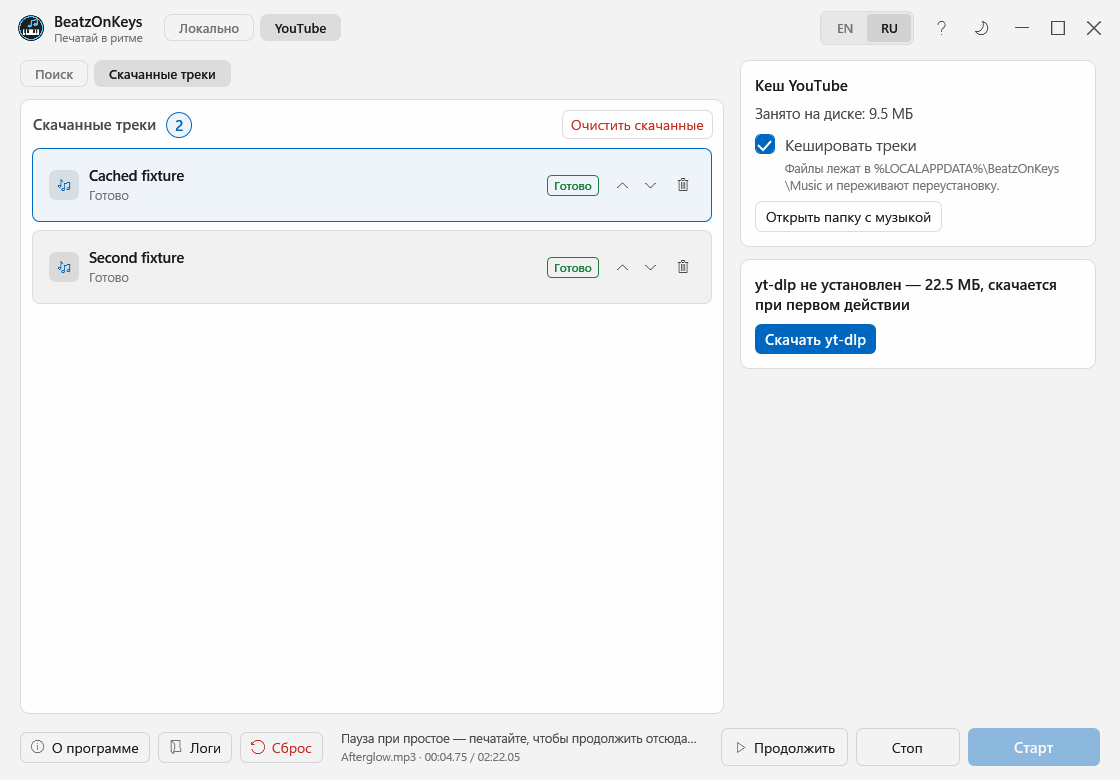
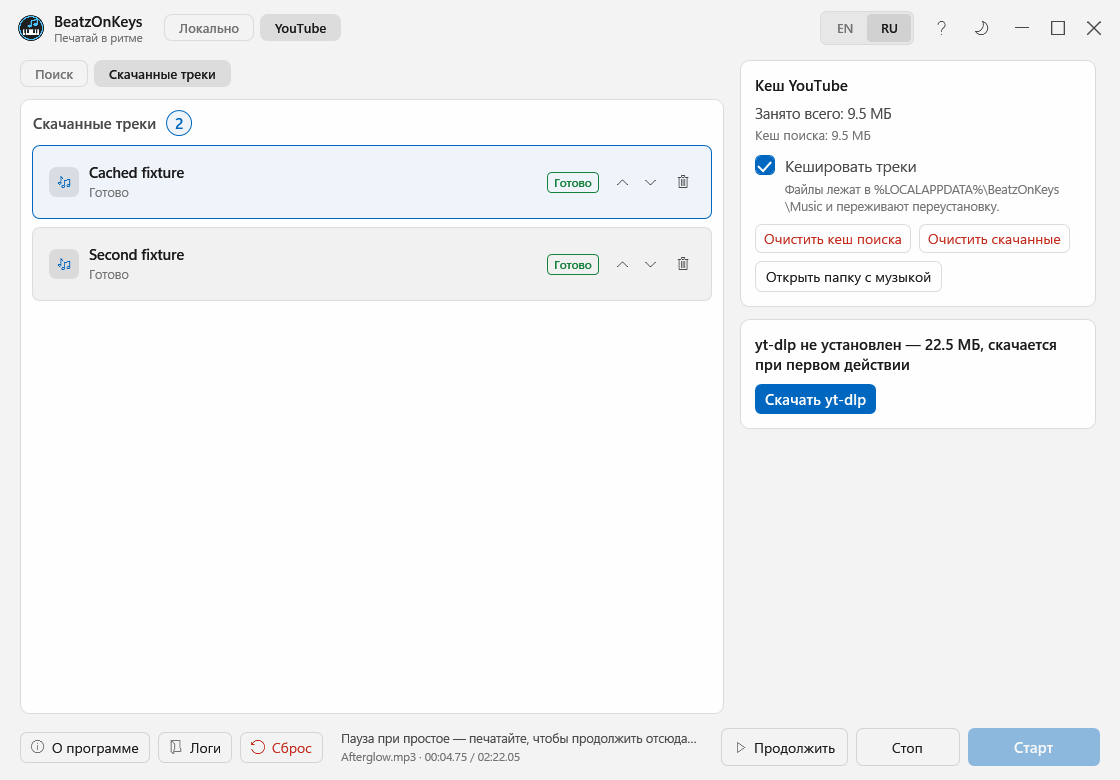
Release 1.3.1: both cache actions live in the cache card
The two clear buttons and the preview size left the tabs and gathered in the YouTube cache card, next to the numbers they change: total, search cache, the caching switch, both actions and the folder button. The downloaded tab header is back to a title and a counter, which also fixes the counter stretching across the row.

Core 89 tests, UI smoke 211 checks, production tray 11. Screenshots regenerated.

diff --git a/BeatzOnKeys.UI/MainWindow.xaml b/BeatzOnKeys.UI/MainWindow.xaml
@@ -848,16 +848,6 @@
                             </DockPanel>
                             <TextBlock Text="{DynamicResource L_YtSearchHint}" FontSize="14" TextWrapping="Wrap"
                                        Margin="0,10,0,0" Foreground="{DynamicResource TextSecondaryBrush}"/>
-                            <!-- The previews this tab made are a separate cache from the kept tracks. -->
-                            <DockPanel Margin="0,10,0,0">
-                                <Button DockPanel.Dock="Right" Content="{DynamicResource L_YtClearSearchCache}"
-                                        Command="{Binding YouTube.ClearSearchCacheCommand}"
-                                        Style="{StaticResource SubtleButtonStyle}" Padding="8,4"
-                                        VerticalAlignment="Center"/>
-                                <TextBlock Text="{Binding YouTube.SearchCacheSizeText}" FontSize="13"
-                                           VerticalAlignment="Center"
-                                           Foreground="{DynamicResource TextTertiaryBrush}"/>
-                            </DockPanel>
                             <ProgressBar Value="{Binding YouTube.InstallProgress, Mode=OneWay}" Maximum="1"
                                          Height="4" Margin="0,10,0,0">
                                 <ProgressBar.Style>
@@ -998,7 +988,7 @@
                             <RowDefinition Height="*"/>
                             <RowDefinition Height="Auto"/>
                         </Grid.RowDefinitions>
-                        <DockPanel Grid.Row="0" Margin="2,0,0,8">
+                        <StackPanel Grid.Row="0" Orientation="Horizontal" Margin="2,0,0,8">
                             <TextBlock Text="{DynamicResource L_YtDownloadedTitle}" FontSize="15"
                                        FontWeight="SemiBold" Foreground="{DynamicResource TextSecondaryBrush}"
                                        VerticalAlignment="Center"/>
@@ -1010,13 +1000,7 @@
                                            FontWeight="SemiBold" HorizontalAlignment="Center"
                                            VerticalAlignment="Center" Foreground="{DynamicResource AccentBrush}"/>
                             </Border>
-                            <!-- Last child of a DockPanel fills the rest of the row unless it opts out,
-                                 so the button is anchored right and keeps its own width. -->
-                            <Button DockPanel.Dock="Right" Content="{DynamicResource L_YtClearDownloaded}"
-                                    Click="YouTubeClearCacheClick"
-                                    Style="{StaticResource DangerButtonStyle}" Padding="8,4"
-                                    HorizontalAlignment="Right" VerticalAlignment="Center"/>
-                        </DockPanel>
+                        </StackPanel>
                         <ListBox Grid.Row="1" ItemsSource="{Binding YouTube.Downloaded}" Background="Transparent"
                                  SelectedItem="{Binding YouTube.SelectedTrack, Mode=TwoWay}"
                                  BorderThickness="0" Padding="0"
@@ -1214,14 +1198,24 @@
                         <StackPanel>
                             <TextBlock Text="{DynamicResource L_YtCacheTitle}" FontSize="15" FontWeight="SemiBold"
                                        Foreground="{DynamicResource TextPrimaryBrush}"/>
+                            <!-- One place for both caches: the total, the previews and the two clear actions. -->
                             <TextBlock Text="{Binding YouTube.CacheSizeText}" FontSize="14.5" Margin="0,8,0,0"
                                        Foreground="{DynamicResource TextSecondaryBrush}"/>
+                            <TextBlock Text="{Binding YouTube.SearchCacheSizeText}" FontSize="13" Margin="0,4,0,0"
+                                       TextWrapping="Wrap" Foreground="{DynamicResource TextTertiaryBrush}"/>
                             <CheckBox IsChecked="{Binding YouTube.CacheEnabled}" Margin="0,10,0,0">
                                 <TextBlock Text="{DynamicResource L_YtCacheEnabled}" TextWrapping="Wrap"/>
                             </CheckBox>
                             <TextBlock Text="{DynamicResource L_YtCacheHint}" FontSize="12.5" TextWrapping="Wrap"
                                        Margin="30,4,0,0" Foreground="{DynamicResource TextTertiaryBrush}"/>
-                            <!-- The two clear actions live on their own tabs: previews are not kept tracks. -->
+                            <WrapPanel Margin="0,10,0,0">
+                                <Button Content="{DynamicResource L_YtClearSearchCache}"
+                                        Command="{Binding YouTube.ClearSearchCacheCommand}"
+                                        Style="{StaticResource DangerButtonStyle}" Padding="8,4" Margin="0,0,8,0"/>
+                                <Button Content="{DynamicResource L_YtClearDownloaded}"
+                                        Click="YouTubeClearCacheClick"
+                                        Style="{StaticResource DangerButtonStyle}" Padding="8,4"/>
+                            </WrapPanel>
                             <Button Content="{DynamicResource L_YtOpenFolder}"
                                     Command="{Binding YouTube.OpenMusicFolderCommand}"
                                     Style="{StaticResource SubtleButtonStyle}" Padding="10,5" Margin="0,8,0,0"

diff --git a/BeatzOnKeys.UI/Localization/Strings.ru.xaml b/BeatzOnKeys.UI/Localization/Strings.ru.xaml
@@ -188,7 +188,7 @@
     <sys:String x:Key="L_YtPlay">Слушать</sys:String>
     <sys:String x:Key="L_YtRemove">Убрать</sys:String>
     <sys:String x:Key="L_YtCacheTitle">Кеш YouTube</sys:String>
-    <sys:String x:Key="L_YtCacheUsedFormat">Занято на диске: {0}</sys:String>
+    <sys:String x:Key="L_YtCacheUsedFormat">Занято всего: {0}</sys:String>
     <sys:String x:Key="L_YtClearCache">Очистить кеш YouTube</sys:String>
     <sys:String x:Key="L_YtClearCacheConfirm">Удалить все скачанные треки YouTube? Локальный плейлист не пострадает.</sys:String>
     <sys:String x:Key="L_YtClearCacheTitle">Очистить кеш</sys:String>

diff --git a/BeatzOnKeys.UI/Localization/Strings.en.xaml b/BeatzOnKeys.UI/Localization/Strings.en.xaml
@@ -188,7 +188,7 @@ Details: {1}</sys:String>
     <sys:String x:Key="L_YtPlay">Listen</sys:String>
     <sys:String x:Key="L_YtRemove">Remove</sys:String>
     <sys:String x:Key="L_YtCacheTitle">YouTube cache</sys:String>
-    <sys:String x:Key="L_YtCacheUsedFormat">Used on disk: {0}</sys:String>
+    <sys:String x:Key="L_YtCacheUsedFormat">Total: {0}</sys:String>
     <sys:String x:Key="L_YtClearCache">Clear the YouTube cache</sys:String>
     <sys:String x:Key="L_YtClearCacheConfirm">Delete every downloaded YouTube track? The local playlist is not affected.</sys:String>
     <sys:String x:Key="L_YtClearCacheTitle">Clear the cache</sys:String>

diff --git a/BeatzOnKeys.Tests/UpdateServiceTests.cs b/BeatzOnKeys.Tests/UpdateServiceTests.cs
@@ -17,9 +17,9 @@ internal static class UpdateServiceTests
         var assemblyVersion = AssertEx.NotNull(typeof(UpdateService).Assembly.GetName().Version);
         AssertEx.Equal(1, assemblyVersion.Major);
         AssertEx.Equal(3, assemblyVersion.Minor);
-        AssertEx.Equal(0, assemblyVersion.Build);
-        AssertEx.Equal(9, assemblyVersion.Revision);
-        AssertEx.Equal("1.3.0.9", UpdateService.CurrentVersion.Display);
+        AssertEx.Equal(1, assemblyVersion.Build);
+        AssertEx.Equal(0, assemblyVersion.Revision);
+        AssertEx.Equal("1.3.1", UpdateService.CurrentVersion.Display);
 
         var current = Version("1.1.1");
         var result = UpdateService.ParseRelease(ReleaseJson("v1.1.1"), current);

diff --git a/tools/AudioProbe/Program.cs b/tools/AudioProbe/Program.cs
@@ -210,7 +210,7 @@ static async Task<int> RunProbeAsync(string sourcePath, string reportPath)
     var passed = checks.All(check => check.Passed);
     var report = new
     {
-        passed, utc = DateTimeOffset.UtcNow, version = "1.3.0.9", source = Path.GetFileName(sourcePath),
+        passed, utc = DateTimeOffset.UtcNow, version = "1.3.1", source = Path.GetFileName(sourcePath),
         durationSeconds = duration.TotalSeconds, processId = Environment.ProcessId,
         capture = "Windows process-specific loopback (only this diagnostic process tree)",
         defaults = new { MinVolume = 0.2, MaxVolume = 1.0, IdleTimeout = 3, PauseOnIdle = true },

diff --git a/BeatzOnKeys.UI/AboutWindow.xaml.cs b/BeatzOnKeys.UI/AboutWindow.xaml.cs
@@ -56,7 +56,7 @@ public partial class AboutWindow : Window
                 return parsed.Display;
             }
 
-            return assembly.GetName().Version?.ToString(3) ?? "1.3.0.9";
+            return assembly.GetName().Version?.ToString(3) ?? "1.3.1";
         }
     }
 

diff --git a/release-notes/v1.3.1.md b/release-notes/v1.3.1.md
@@ -1,0 +1,41 @@
+## English
+
+1.3.1 gathers both cache actions in one card, where the numbers they act on live.
+
+### One place for the cache
+
+- **Both clear buttons moved into «Кеш YouTube»**: «Очистить кеш поиска» removes the previews only, «Очистить скачанные» removes the tracks you kept and their files. They sat on the tabs before, far from the size they change.
+- **The search cache is reported there too**, so the card now reads as a whole: `Total`, `Search cache`, the caching switch, both actions and the folder button.
+- **The tabs lost their header buttons** and went back to just a title and a counter — the downloaded list gets that width back for its rows.
+
+## Русский
+
+1.3.1 собирает обе очистки кеша в одной карточке — там же, где числа, на которые они влияют.
+
+### Одно место для кеша
+
+- **Обе кнопки очистки переехали в «Кеш YouTube»**: «Очистить кеш поиска» удаляет только предпросмотры, «Очистить скачанные» — сохранённые треки вместе с файлами. Раньше они жили на вкладках, далеко от того размера, который меняют.
+- **Кеш поиска показывается там же**, поэтому карточка читается целиком: `Занято всего`, `Кеш поиска`, переключатель кеширования, оба действия и кнопка папки.
+- **Вкладки лишились кнопок в заголовке** и вернулись к заголовку со счётчиком — список скачанного получил эту ширину обратно под строки.
+
+## Assets
+
+Every file for this version is attached to the release:
+
+| File | What it is |
+|---|---|
+| [`BeatzOnKeys.exe`](https://github.com/MusicCat-61/BeatzOnKeys/releases/download/v1.3.1/BeatzOnKeys.exe) | Portable single-file build — **this is what the in-app updater downloads** |
+| [`BeatzOnKeys.exe.sha256`](https://github.com/MusicCat-61/BeatzOnKeys/releases/download/v1.3.1/BeatzOnKeys.exe.sha256) | SHA-256 of the executable |
+| [`BeatzOnKeys-win-x64.zip`](https://github.com/MusicCat-61/BeatzOnKeys/releases/download/v1.3.1/BeatzOnKeys-win-x64.zip) | The same build as a folder archive, for a manual install |
+| [`BeatzOnKeys-win-x64.zip.sha256`](https://github.com/MusicCat-61/BeatzOnKeys/releases/download/v1.3.1/BeatzOnKeys-win-x64.zip.sha256) | SHA-256 of the archive |
+
+## Ассеты
+
+Все файлы этой версии прикреплены к релизу:
+
+| Файл | Что это |
+|---|---|
+| [`BeatzOnKeys.exe`](https://github.com/MusicCat-61/BeatzOnKeys/releases/download/v1.3.1/BeatzOnKeys.exe) | Портативная сборка одним файлом — **именно её скачивает встроенный апдейтер** |
+| [`BeatzOnKeys.exe.sha256`](https://github.com/MusicCat-61/BeatzOnKeys/releases/download/v1.3.1/BeatzOnKeys.exe.sha256) | SHA-256 исполняемого файла |
+| [`BeatzOnKeys-win-x64.zip`](https://github.com/MusicCat-61/BeatzOnKeys/releases/download/v1.3.1/BeatzOnKeys-win-x64.zip) | Та же сборка папкой, для ручной установки |
+| [`BeatzOnKeys-win-x64.zip.sha256`](https://github.com/MusicCat-61/BeatzOnKeys/releases/download/v1.3.1/BeatzOnKeys-win-x64.zip.sha256) | SHA-256 архива |

diff --git a/README.md b/README.md
@@ -4,7 +4,7 @@
 [![Download](https://img.shields.io/badge/download-portable%20win--x64-2ea44f?style=flat-square)](https://github.com/MusicCat-61/BeatzOnKeys/releases/latest)
 [![CI](https://github.com/MusicCat-61/BeatzOnKeys/actions/workflows/ci.yml/badge.svg?branch=main)](https://github.com/MusicCat-61/BeatzOnKeys/actions/workflows/ci.yml)
 [![License](https://img.shields.io/badge/license-MIT-blue?style=flat-square)](<LICENSE>)
-[![Version](https://img.shields.io/badge/version-1.3.0.9-4CC2FF?style=flat-square)](https://github.com/MusicCat-61/BeatzOnKeys/releases)
+[![Version](https://img.shields.io/badge/version-1.3.1-4CC2FF?style=flat-square)](https://github.com/MusicCat-61/BeatzOnKeys/releases)
 [![Platform](https://img.shields.io/badge/platform-Windows%2010%20%7C%2011-0078D6?style=flat-square)](#требования)
 [![.NET](https://img.shields.io/badge/.NET-10-512BD4?style=flat-square)](https://dotnet.microsoft.com/download/dotnet/10.0)
 
@@ -94,7 +94,7 @@ BeatzOnKeys написана на C# с .NET 10 и WPF; NAudio отвечает 
 
 Одновременно может работать только одна копия: повторный запуск возвращает окно уже работающей.
 
-Установщик, права администратора и отдельный .NET Runtime не нужны. **Обновление с 1.0.x:** закройте старую программу, скачайте 1.3.0.9 вручную и замените старую папку, не используя старый встроенный установщик. Настройки перенесутся автоматически, как описано [выше](#настройки).
+Установщик, права администратора и отдельный .NET Runtime не нужны. **Обновление с 1.0.x:** закройте старую программу, скачайте 1.3.1 вручную и замените старую папку, не используя старый встроенный установщик. Настройки перенесутся автоматически, как описано [выше](#настройки).
 
 ### Требования
 
@@ -180,14 +180,14 @@ dotnet build BeatzOnKeys.sln -c Release
 dotnet run --project BeatzOnKeys.Tests -c Release
 ```
 
-Создайте портативную самодостаточную папку **1.3.0.9** в Windows **cmd**:
+Создайте портативную самодостаточную папку **1.3.1** в Windows **cmd**:
 
 ```bat
-set BOK_VERSION=1.3.0.9
+set BOK_VERSION=1.3.1
 publish.bat
 ```
 
-Теперь скрипт по умолчанию использует `BOK_VERSION=1.3.0.9`; явное указание переменной делает целевую версию релиза однозначной.
+Теперь скрипт по умолчанию использует `BOK_VERSION=1.3.1`; явное указание переменной делает целевую версию релиза однозначной.
 
 Скрипт проверяет цель очистки `Build_Output`, публикует `BeatzOnKeys.UI` как self-contained `win-x64` и копирует оба README, примечания к релизу, скриншоты, лицензию и сторонние уведомления. Любая обязательная ошибка публикации/копирования останавливает сборку. Итоговый `Build_Output` — портативный продукт.
 

diff --git a/README.en.md b/README.en.md
@@ -4,7 +4,7 @@
 [![Download](https://img.shields.io/badge/download-portable%20win--x64-2ea44f?style=flat-square)](https://github.com/MusicCat-61/BeatzOnKeys/releases/latest)
 [![CI](https://github.com/MusicCat-61/BeatzOnKeys/actions/workflows/ci.yml/badge.svg?branch=main)](https://github.com/MusicCat-61/BeatzOnKeys/actions/workflows/ci.yml)
 [![License](https://img.shields.io/badge/license-MIT-blue?style=flat-square)](<LICENSE>)
-[![Version](https://img.shields.io/badge/version-1.3.0.9-4CC2FF?style=flat-square)](https://github.com/MusicCat-61/BeatzOnKeys/releases)
+[![Version](https://img.shields.io/badge/version-1.3.1-4CC2FF?style=flat-square)](https://github.com/MusicCat-61/BeatzOnKeys/releases)
 [![Platform](https://img.shields.io/badge/platform-Windows%2010%20%7C%2011-0078D6?style=flat-square)](#requirements)
 [![.NET](https://img.shields.io/badge/.NET-10-512BD4?style=flat-square)](https://dotnet.microsoft.com/download/dotnet/10.0)
 
@@ -94,7 +94,7 @@ Choosing another track starts that track from its beginning.
 
 Only one copy can run at a time: launching it again restores the window of the running copy.
 
-No installer, administrator rights, or separate .NET runtime are required. **Upgrading from 1.0.x:** close the old app, download 1.3.0.9 manually, and replace the old folder rather than using the old in-app installer. Existing settings migrate automatically as described [above](#settings).
+No installer, administrator rights, or separate .NET runtime are required. **Upgrading from 1.0.x:** close the old app, download 1.3.1 manually, and replace the old folder rather than using the old in-app installer. Existing settings migrate automatically as described [above](#settings).
 
 ### Requirements
 
@@ -182,14 +182,14 @@ dotnet build BeatzOnKeys.sln -c Release
 dotnet run --project BeatzOnKeys.Tests -c Release
 ```
 
-Create the **1.3.0.9** portable self-contained folder in Windows **cmd**:
+Create the **1.3.1** portable self-contained folder in Windows **cmd**:
 
 ```bat
-set BOK_VERSION=1.3.0.9
+set BOK_VERSION=1.3.1
 publish.bat
 ```
 
-The publisher now defaults to `BOK_VERSION=1.3.0.9`; setting it explicitly makes the intended release version clear.
+The publisher now defaults to `BOK_VERSION=1.3.1`; setting it explicitly makes the intended release version clear.
 
 The publisher validates its `Build_Output` cleanup target, publishes `BeatzOnKeys.UI` self-contained for `win-x64`, and copies both READMEs, release notes, screenshots, the license, and third-party notices. It stops on any required publish/copy failure. The resulting `Build_Output` directory is the portable product.
 
